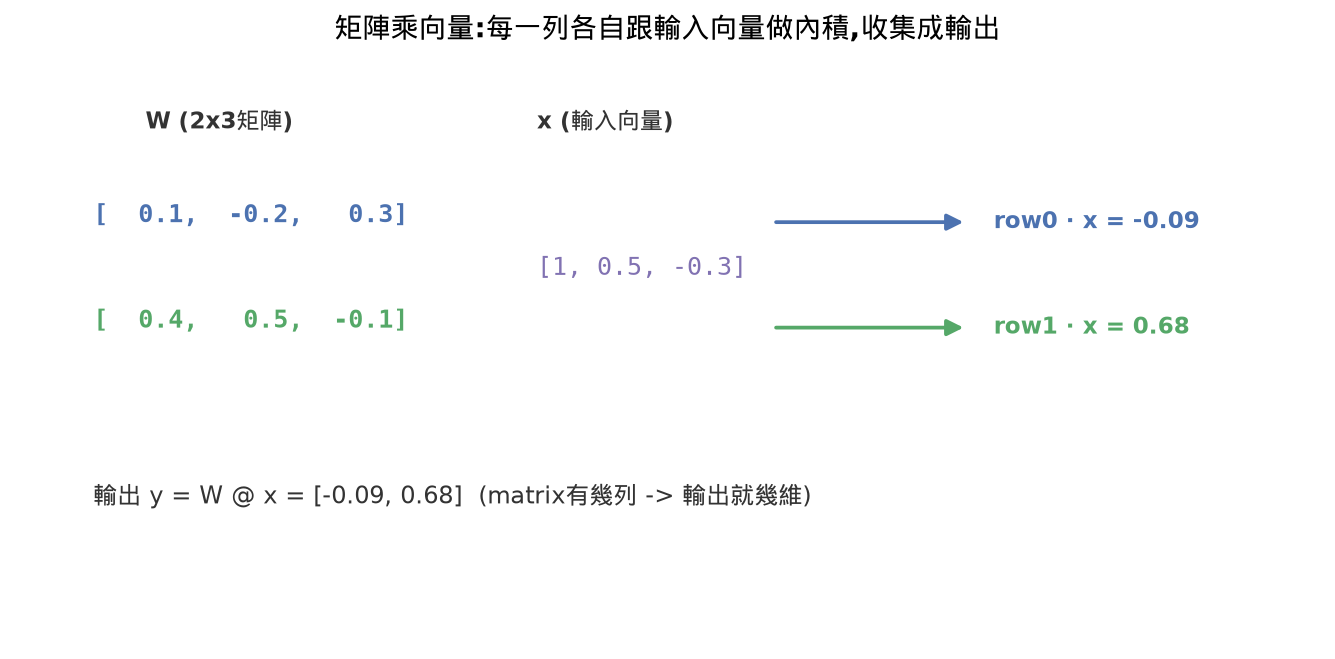
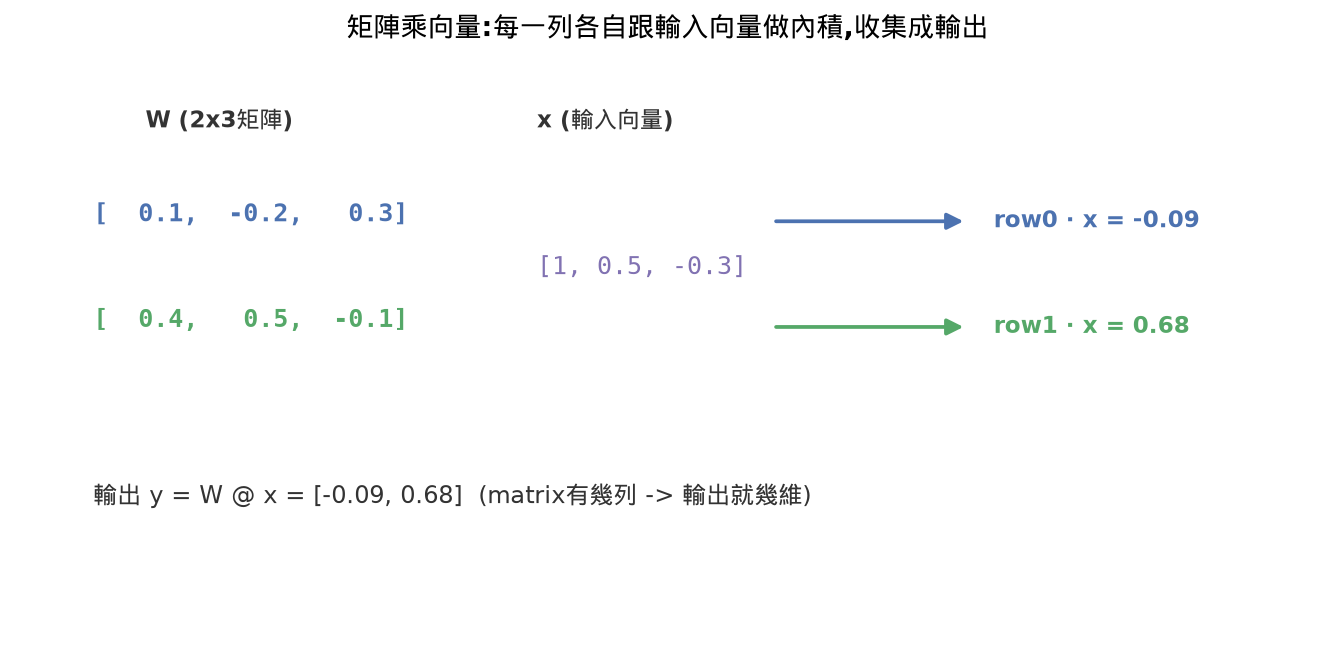
Lesson 1 diagrams: unify visual style, add shared plot style module
Pull the repeated CJK font setup and per-script fontsize/grid/legend
tweaks into 01-math-foundations/_shared/plot_style.py: one color
palette, consistent title/label/legend/tick sizes, spines and grid
treatment, same dpi. Lesson 1's make_*.py scripts now import it and
regenerate their PNGs with the shared look.

diff --git a/01-math-foundations/_shared/plot_style.py b/01-math-foundations/_shared/plot_style.py
@@ -1,0 +1,72 @@
+"""
+Shared matplotlib style for every make_*.py diagram script under 01-math-foundations.
+
+Import this once near the top of a script and call setup_style() before any
+figure is created, so all ten lessons' diagrams share one look instead of
+drifting style from session to session.
+
+    import sys, os
+    sys.path.insert(0, os.path.join(os.path.dirname(__file__), "..", "..", "_shared"))
+    from plot_style import setup_style, BLUE, RED, GREEN, PURPLE, GOLD, GRAY
+    setup_style()
+"""
+import matplotlib
+import matplotlib.font_manager as fm
+
+# ---- color palette --------------------------------------------------------
+# One accent color per recurring role. Reused the same way across all
+# lessons: BLUE is always "first / primary", RED is always "highlight /
+# contrast / warning", GREEN is always "correct / success", PURPLE and GOLD
+# are the third and fourth items when a diagram needs more than two.
+BLUE = "#4C72B0"
+RED = "#C44E52"
+GREEN = "#55A868"
+PURPLE = "#8172B2"
+GOLD = "#CCB974"
+GRAY = "#666666"       # reference lines, de-emphasized elements
+AXIS_GRAY = "#888888"  # spines / zero-lines
+
+PALETTE = [BLUE, RED, GREEN, PURPLE, GOLD]
+
+# ---- typography / sizing ---------------------------------------------------
+TITLE_SIZE = 13        # single-panel figure title / figure suptitle base
+SUPTITLE_SIZE = 13.5   # fig.suptitle on multi-panel figures
+SUBPLOT_TITLE_SIZE = 11.5  # per-axes title inside a multi-panel figure
+LABEL_SIZE = 11
+LEGEND_SIZE = 9.5
+TICK_SIZE = 9.5
+
+DPI = 150
+
+# Common figure sizes, picked by how many panels a diagram needs.
+FIGSIZE_1 = (7, 5)
+FIGSIZE_1_SQUARE = (6.5, 6.5)
+FIGSIZE_2 = (11, 4.6)
+FIGSIZE_3 = (13.5, 4.5)
+
+_CJK_FONT_PATH = "/usr/share/fonts/truetype/droid/DroidSansFallbackFull.ttf"
+
+
+def setup_style():
+    """Apply the shared rcParams. Call this once, before creating any figure."""
+    fm.fontManager.addfont(_CJK_FONT_PATH)
+    matplotlib.rcParams.update({
+        "font.family": ["DejaVu Sans", "Droid Sans Fallback"],
+        "axes.unicode_minus": False,
+        "axes.titlesize": TITLE_SIZE,
+        "axes.titleweight": "bold",
+        "axes.labelsize": LABEL_SIZE,
+        "legend.fontsize": LEGEND_SIZE,
+        "xtick.labelsize": TICK_SIZE,
+        "ytick.labelsize": TICK_SIZE,
+        "figure.titlesize": SUPTITLE_SIZE,
+        "figure.titleweight": "bold",
+        "grid.alpha": 0.3,
+        "grid.linestyle": "--",
+        "axes.spines.top": False,
+        "axes.spines.right": False,
+        "axes.edgecolor": AXIS_GRAY,
+        "axes.linewidth": 0.9,
+        "savefig.dpi": DPI,
+        "savefig.bbox": "tight",
+    })

diff --git a/01-math-foundations/01-linear-algebra-intuition/images/make_rank_independence_demo.py b/01-math-foundations/01-linear-algebra-intuition/images/make_rank_independence_demo.py
@@ -7,9 +7,10 @@ import matplotlib.font_manager as fm
 import matplotlib.pyplot as plt
 import numpy as np
 
-fm.fontManager.addfont("/usr/share/fonts/truetype/droid/DroidSansFallbackFull.ttf")
-matplotlib.rcParams["font.family"] = ["DejaVu Sans", "Droid Sans Fallback"]
-matplotlib.rcParams["axes.unicode_minus"] = False
+import sys
+sys.path.insert(0, "../../_shared")
+from plot_style import setup_style, BLUE, RED, GREEN, PURPLE, GOLD, GRAY
+setup_style()
 
 fig, axes = plt.subplots(1, 2, figsize=(11, 5.5))
 
@@ -24,7 +25,7 @@ ax.axhline(0, color="#999999", lw=0.8)
 ax.axvline(0, color="#999999", lw=0.8)
 ax.set_xlim(-1, 3); ax.set_ylim(-1, 3); ax.set_aspect("equal")
 ax.grid(alpha=0.3, linestyle="--")
-ax.set_title("線性獨立:v1、v2 撐出整個2維平面\nrank = 2(沒有冗餘方向)", fontsize=11, fontweight="bold")
+ax.set_title("線性獨立:v1、v2 撐出整個2維平面\nrank = 2(沒有冗餘方向)", fontsize=11.5, fontweight="bold")
 
 # 右圖:v3 是 v1、v2 的線性組合,加了也不增加維度,rank 仍是 2
 v3 = 1.2 * v1 + 0.4 * v2
@@ -38,9 +39,9 @@ ax.axhline(0, color="#999999", lw=0.8)
 ax.axvline(0, color="#999999", lw=0.8)
 ax.set_xlim(-1, 4); ax.set_ylim(-1, 4); ax.set_aspect("equal")
 ax.grid(alpha=0.3, linestyle="--")
-ax.set_title("線性相依:v3 可由 v1、v2 組合出來\n加入 v3 仍是 rank = 2(v3 是冗餘方向)", fontsize=11, fontweight="bold")
+ax.set_title("線性相依:v3 可由 v1、v2 組合出來\n加入 v3 仍是 rank = 2(v3 是冗餘方向)", fontsize=11.5, fontweight="bold")
 
-fig.suptitle("linear independence(線性獨立) 與 rank(矩陣的秩)", fontsize=13, fontweight="bold", y=1.02)
+fig.suptitle("linear independence(線性獨立) 與 rank(矩陣的秩)", y=1.02)
 plt.tight_layout()
 plt.savefig("rank_independence.png", dpi=150, bbox_inches="tight")
 print("saved")

diff --git a/01-math-foundations/01-linear-algebra-intuition/images/make_matrix_vector_demo.py b/01-math-foundations/01-linear-algebra-intuition/images/make_matrix_vector_demo.py
@@ -5,9 +5,10 @@ import matplotlib
 import matplotlib.font_manager as fm
 import matplotlib.pyplot as plt
 
-fm.fontManager.addfont("/usr/share/fonts/truetype/droid/DroidSansFallbackFull.ttf")
-matplotlib.rcParams["font.family"] = ["DejaVu Sans", "Droid Sans Fallback"]
-matplotlib.rcParams["axes.unicode_minus"] = False
+import sys
+sys.path.insert(0, "../../_shared")
+from plot_style import setup_style, BLUE, RED, GREEN, PURPLE, GOLD, GRAY
+setup_style()
 
 W = [[0.1, -0.2, 0.3], [0.4, 0.5, -0.1]]
 x = [1, 0.5, -0.3]
@@ -37,7 +38,7 @@ for i, (lab, c) in enumerate(zip(row_labels, colors)):
 ax.text(0.6, 1.2, f"輸出 y = W @ x = [{y[0]:.2f}, {y[1]:.2f}]  (matrix有幾列 -> 輸出就幾維)",
         fontsize=11.5, color="#333333")
 
-ax.set_title("矩陣乘向量:每一列各自跟輸入向量做內積,收集成輸出", fontsize=13.5, fontweight="bold", pad=10)
+ax.set_title("矩陣乘向量:每一列各自跟輸入向量做內積,收集成輸出", pad=10)
 plt.tight_layout()
 plt.savefig("matrix_vector_multiply.png", dpi=150, bbox_inches="tight")
 print("saved")

diff --git a/01-math-foundations/01-linear-algebra-intuition/images/make_scalar_multiply_demo.py b/01-math-foundations/01-linear-algebra-intuition/images/make_scalar_multiply_demo.py
@@ -6,9 +6,10 @@ import matplotlib.font_manager as fm
 import matplotlib.pyplot as plt
 import numpy as np
 
-fm.fontManager.addfont("/usr/share/fonts/truetype/droid/DroidSansFallbackFull.ttf")
-matplotlib.rcParams["font.family"] = ["DejaVu Sans", "Droid Sans Fallback"]
-matplotlib.rcParams["axes.unicode_minus"] = False
+import sys
+sys.path.insert(0, "../../_shared")
+from plot_style import setup_style, BLUE, RED, GREEN, PURPLE, GOLD, GRAY
+setup_style()
 
 v = np.array([2, 1])
 scalars = [1, 2, 0.5, -1]
@@ -28,8 +29,8 @@ ax.set_xlim(-3, 5)
 ax.set_ylim(-3, 3)
 ax.set_aspect("equal")
 ax.grid(alpha=0.3, linestyle="--")
-ax.set_title("純量乘法(scalar multiply):只改變長度,負數會反轉方向", fontsize=13, fontweight="bold")
-ax.legend(loc="upper left", fontsize=10, framealpha=0.9)
+ax.set_title("純量乘法(scalar multiply):只改變長度,負數會反轉方向")
+ax.legend(loc="upper left", framealpha=0.9)
 
 plt.tight_layout()
 plt.savefig("scalar_multiply.png", dpi=150, bbox_inches="tight")

diff --git a/01-math-foundations/01-linear-algebra-intuition/images/make_lora_lowrank_demo.py b/01-math-foundations/01-linear-algebra-intuition/images/make_lora_lowrank_demo.py
@@ -7,9 +7,10 @@ import matplotlib.font_manager as fm
 import matplotlib.patches as patches
 import matplotlib.pyplot as plt
 
-fm.fontManager.addfont("/usr/share/fonts/truetype/droid/DroidSansFallbackFull.ttf")
-matplotlib.rcParams["font.family"] = ["DejaVu Sans", "Droid Sans Fallback"]
-matplotlib.rcParams["axes.unicode_minus"] = False
+import sys
+sys.path.insert(0, "../../_shared")
+from plot_style import setup_style, BLUE, RED, GREEN, PURPLE, GOLD, GRAY
+setup_style()
 
 m, n, r = 6, 6, 1.2  # r 畫得很窄,強調「低秩」
 
@@ -43,7 +44,7 @@ ax.text(ax_x, -1.1,
 ax.set_xlim(-0.5, ax_x + n + 0.5)
 ax.set_ylim(-2.2, n + 1.2)
 ax.axis("off")
-ax.set_title("LoRA(Low-Rank Adaptation):ΔW = B @ A,低秩分解", fontsize=13, fontweight="bold")
+ax.set_title("LoRA(Low-Rank Adaptation):ΔW = B @ A,低秩分解")
 
 plt.tight_layout()
 plt.savefig("lora_lowrank.png", dpi=150, bbox_inches="tight")

diff --git a/01-math-foundations/01-linear-algebra-intuition/images/make_magnitude_demo.py b/01-math-foundations/01-linear-algebra-intuition/images/make_magnitude_demo.py
@@ -6,9 +6,10 @@ import matplotlib.font_manager as fm
 import matplotlib.pyplot as plt
 import numpy as np
 
-fm.fontManager.addfont("/usr/share/fonts/truetype/droid/DroidSansFallbackFull.ttf")
-matplotlib.rcParams["font.family"] = ["DejaVu Sans", "Droid Sans Fallback"]
-matplotlib.rcParams["axes.unicode_minus"] = False
+import sys
+sys.path.insert(0, "../../_shared")
+from plot_style import setup_style, BLUE, RED, GREEN, PURPLE, GOLD, GRAY
+setup_style()
 
 v = np.array([4, 3])
 mag = float(np.linalg.norm(v))  # sqrt(4^2+3^2) = 5
@@ -32,7 +33,7 @@ ax.set_xlim(-1, 5.5)
 ax.set_ylim(-1, 4.5)
 ax.set_aspect("equal")
 ax.grid(alpha=0.3, linestyle="--")
-ax.set_title("magnitude(向量長度):畢氏定理的推廣", fontsize=13, fontweight="bold")
+ax.set_title("magnitude(向量長度):畢氏定理的推廣")
 
 plt.tight_layout()
 plt.savefig("magnitude.png", dpi=150, bbox_inches="tight")
